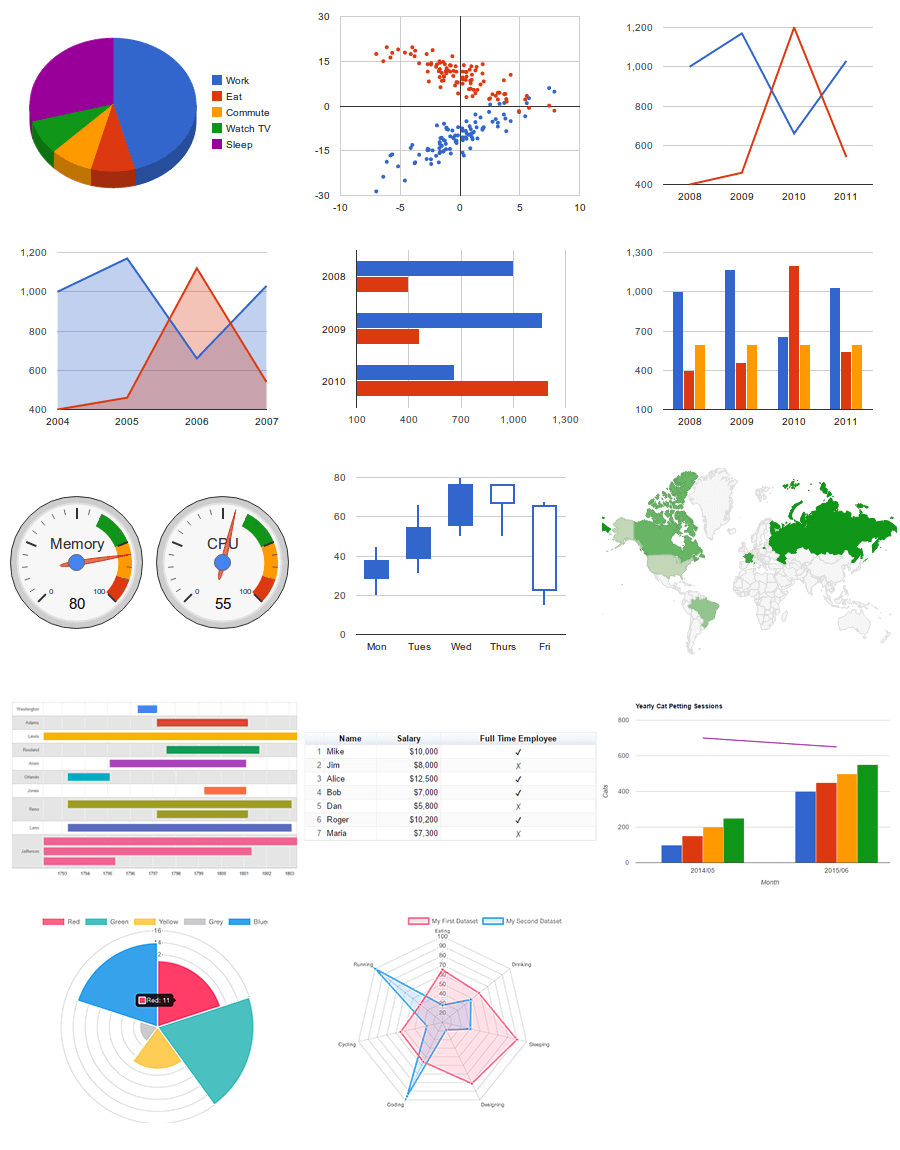
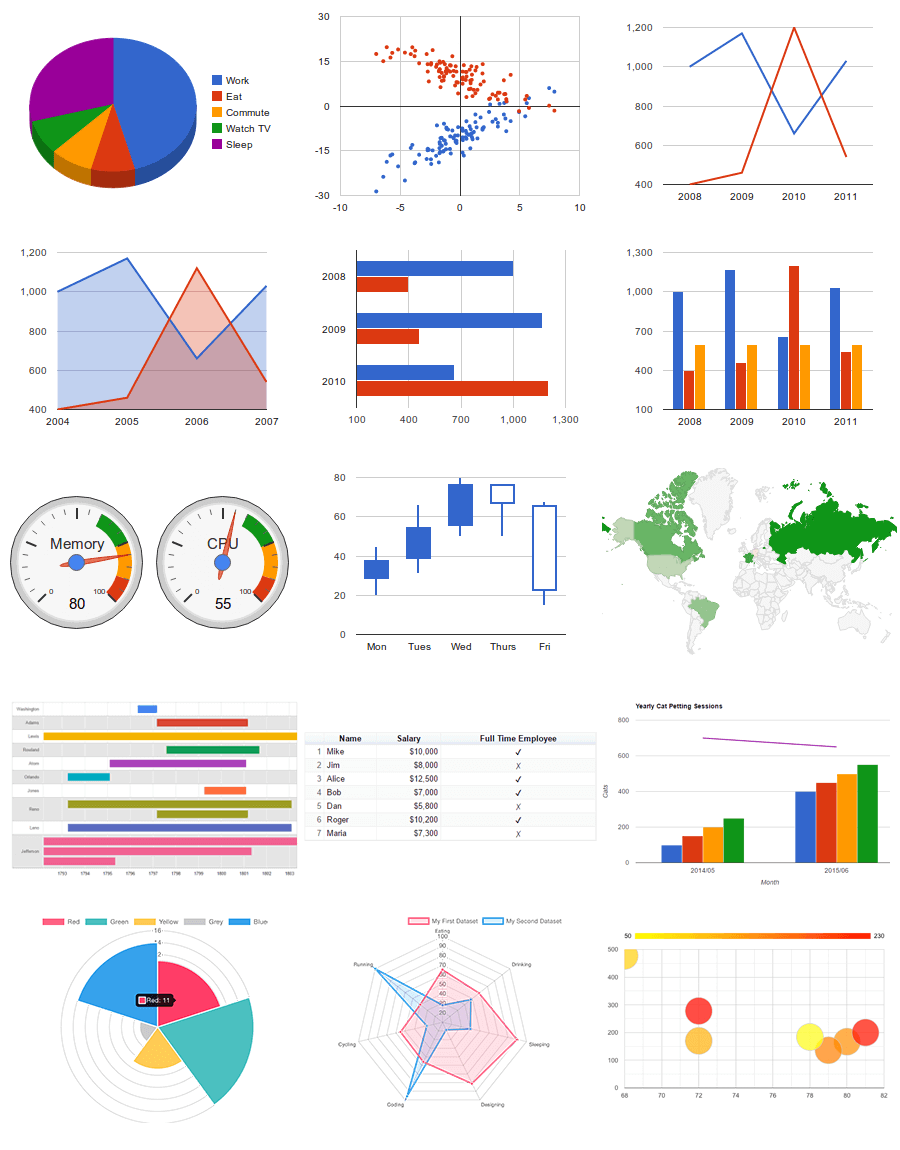
use correct image

diff --git a/css/frame.css b/css/frame.css
@@ -500,7 +500,7 @@ div.viz-group-content .viz-group-description {
 }
 
 .type-box-bubble .type-label {
-	background-position: -600px -225px;
+	background-position: -600px -906px;
 }
 
 .type-box-column .type-label {
